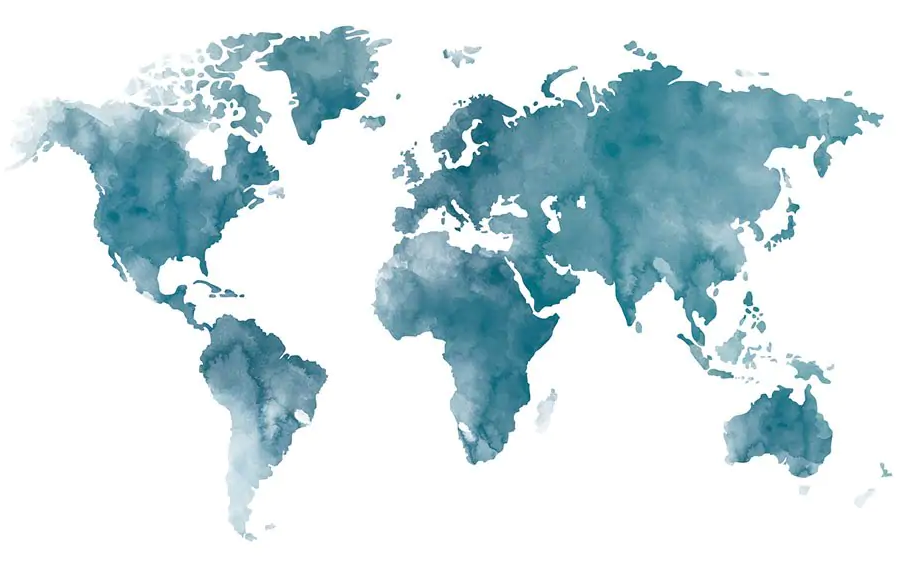
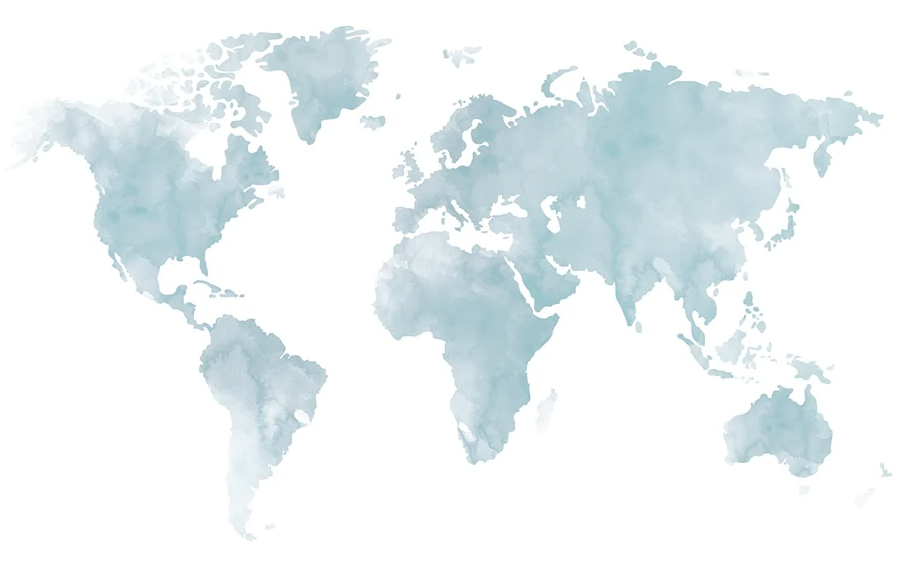
background img added; saved and search results page done

diff --git a/css/stylesheet.css b/css/stylesheet.css
@@ -10,7 +10,6 @@
 /* Colors */
 :root {
   --orange: #dd6830;
-  --dark-brown: #37240e;
 }
 /* Common Fonts */
 
@@ -28,6 +27,13 @@
 }
 .black {
   color: black !important;
+}
+
+body {
+  background-image: url("/assets/images/world.png");
+  background-repeat: no-repeat;
+  background-position: center;
+  background-size: cover;
 }
 
 /* Header */
@@ -84,8 +90,8 @@ nav a:hover {
 }
 
 .sub-title {
-  font-size: 38px;
-  margin-bottom: 20px;
+  font-size: 40px;
+  margin-bottom: 60px;
 }
 
 .body-text2 {
@@ -99,11 +105,7 @@ nav a:hover {
   color: var(--pink);
 } */
 
-.no-border {
-  border: none;
-}
-
-/* Contact */
+/* Search */
 
 form {
   margin-left: 50px;
@@ -135,24 +137,60 @@ form {
 .my-btn {
   font-family: Ethnocentric;
   font-size: 25px;
-  color: white;
   background-color: black;
   margin-top: 30px;
+}
+
+.my-btn a {
+  color: white !important;
 }
 
 .my-btn:hover {
   opacity: 0.75;
 }
 
-/* Footer */
+/* Cards */
 
-footer {
-  margin-top: 20px;
-  margin-bottom: 20px;
-  margin-right: 10px;
+.card {
+  max-width: 600px !important;
+  max-height: 400px !important;
 }
 
-.icon {
-  height: 40px;
-  width: 40px;
+.border {
+  border: 1px solid var(--orange) !important;
+}
+
+.card-title {
+  display: flex;
+  font-size: 35px;
+  justify-content: space-between;
+}
+
+svg {
+  height: 35px;
+  width: 35px;
+}
+
+.card-body h6 {
+  font-size: 25px;
+  margin-bottom: 20px;
+}
+
+.card-body label {
+  font-size: 25px;
+  margin-bottom: 20px;
+}
+
+.form-check-input {
+  position: relative !important;
+  height: 20px;
+  width: 20px;
+}
+
+.card-body h6 a {
+  color: black;
+}
+
+.card-body h6 a:hover {
+  color: var(--orange);
 }

diff --git a/saved.html b/saved.html
@@ -27,12 +27,29 @@
 </header>
 
     <section class="body-text reg-font-color">
-        <p>Discover erases job hunting stress 
-            by offering hundreds of job opportunities 
-            personalized to your needs!</p> 
-            <br>
-            <p class="center">Login or Sign-up to begin the  <a class="orange space" href="search.html"><span></span>search</span></a>!</p>
-    </section>
+        <h2 class="page-title">Saved Jobs</h2>
+        <div>
+          <div class="card border" style="width: 18rem;">
+            <div class="card-body">
+              <h5 class="card-title">Job Title <span><svg xmlns="http://www.w3.org/2000/svg" width="16" height="16" fill="currentColor" class="bi bi-bookmark-heart-fill" viewBox="0 0 16 16">
+                <path d="M2 15.5a.5.5 0 0 0 .74.439L8 13.069l5.26 2.87A.5.5 0 0 0 14 15.5V2a2 2 0 0 0-2-2H4a2 2 0 0 0-2 2v13.5zM8 4.41c1.387-1.425 4.854 1.07 0 4.277C3.146 5.48 6.613 2.986 8 4.412z"/>
+              </svg></span></h5>
+              <div class="card-body">
+                <h6>{Date of posting}</h6>
+                <h6>{Location}</h6>
+                <h6>{Field}</h6>
+                <h6><a href="">Job Posting</a></h6>
+                <div class="form-check">
+                  <input class="form-check-input" type="checkbox" value="" id="flexCheckDefault">
+                  <label class="form-check-label" for="flexCheckDefault">
+                    Applied to
+                  </label>
+              </div>
+            </div>
+          </div>
+        </div>
+
+        </section>
     
 </body>
 </html>

diff --git a/search-results.html b/search-results.html
@@ -31,13 +31,13 @@
         <h3 class="sub-title">{City} {State} {Field}</h3>
 
         <div>
-          <div class="card" style="width: 18rem;">
+          <div class="card border" style="width: 18rem;">
             <div class="card-body">
               <h5 class="card-title">Job Title <span><svg xmlns="http://www.w3.org/2000/svg" width="16" height="16" fill="currentColor" class="bi bi-bookmark-heart" viewBox="0 0 16 16">
                 <path fill-rule="evenodd" d="M8 4.41c1.387-1.425 4.854 1.07 0 4.277C3.146 5.48 6.613 2.986 8 4.412z"/>
                 <path d="M2 2a2 2 0 0 1 2-2h8a2 2 0 0 1 2 2v13.5a.5.5 0 0 1-.777.416L8 13.101l-5.223 2.815A.5.5 0 0 1 2 15.5V2zm2-1a1 1 0 0 0-1 1v12.566l4.723-2.482a.5.5 0 0 1 .554 0L13 14.566V2a1 1 0 0 0-1-1H4z"/>
               </svg></span></h5>
-              <div>
+              <div class="card-body">
                 <h6>{Date of posting}</h6>
                 <h6>{Location}</h6>
                 <h6>{Field}</h6>

diff --git a/search.html b/search.html
@@ -51,7 +51,7 @@
                   <label for="exampleInputField" class="form-label label-center">Field</label>
                   <input type="text" class="form-control field-form center" id="exampleInputField">
                 </div>
-                <button type="submit" class="btn my-btn center">Submit</button>
+                <button type="submit" class="btn my-btn center"><a href="search-results.html">Submit</a></button>
               </form>
 
     </section>

diff --git a/index.html b/index.html
@@ -10,7 +10,7 @@
 
 </head>
 <body>
-    
+ 
     <header>
         <nav>
             <ul class="nav justify-content-center nav-fill">
